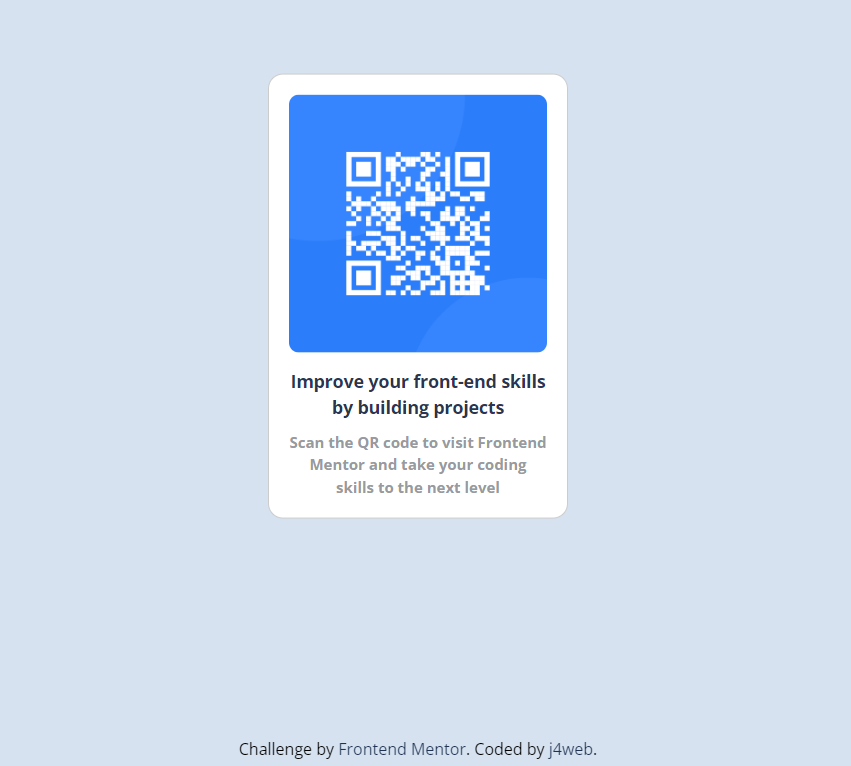
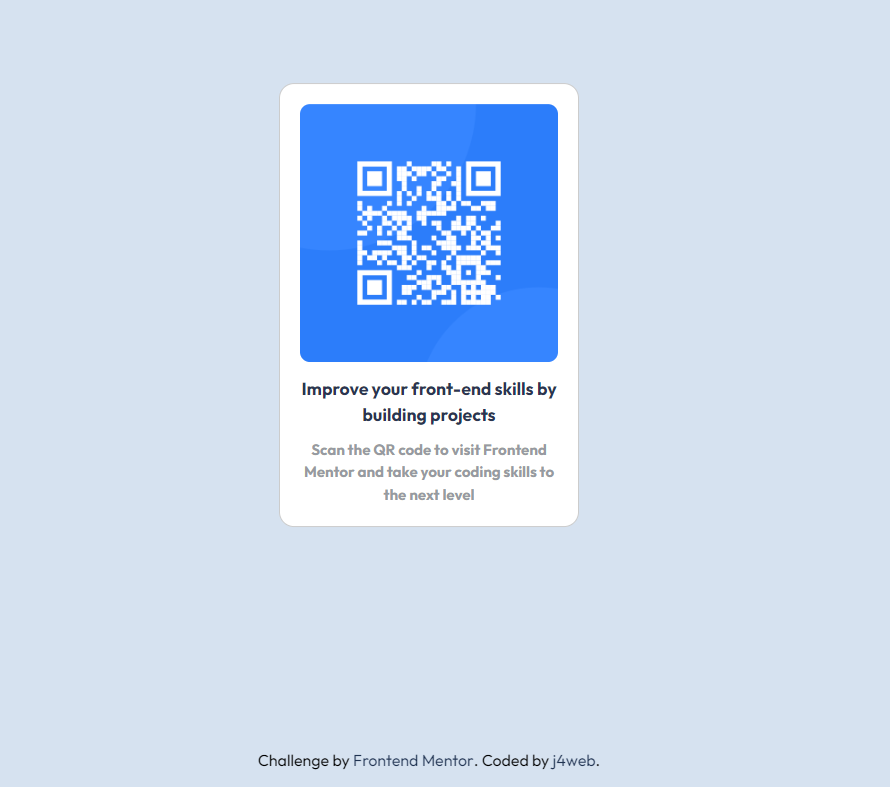
font-fam improved

Changed region(s): [[0.3055, 0.0901, 0.6722, 0.6906], [0.3972, 0.1802, 0.5805, 0.3903], [0.275, 0.9608, 0.7027, 0.9909]]

diff --git a/index.html b/index.html
@@ -7,8 +7,8 @@
   <link rel="icon" type="image/png" sizes="32x32" href="./images/favicon-32x32.png">
   
   <link rel="preconnect" href="https://fonts.googleapis.com">
-  <link rel="preconnect" href="https://fonts.gstatic.com" crossorigin>
-  <link href="https://fonts.googleapis.com/css2?family=Open+Sans:wght@400;700&family=Poppins:wght@700&display=swap" rel="stylesheet">
+<link rel="preconnect" href="https://fonts.gstatic.com" crossorigin>
+<link href="https://fonts.googleapis.com/css2?family=Open+Sans:wght@400;700&family=Outfit:wght@400;700&family=Poppins:wght@700&display=swap" rel="stylesheet">
   <title>Frontend Mentor | QR code component</title>
 
   <!-- Feel free to remove these styles or customise in your own stylesheet 👍 -->

diff --git a/main.css b/main.css
@@ -5,7 +5,7 @@
 }
 body{
     background-color: hsl(212, 45%, 89%);
-    font-family: 'Open Sans', sans-serif;
+font-family: 'Outfit', sans-serif;
 }
 .card{
     width: 300px;

diff --git a/README.md b/README.md
@@ -1,87 +1,103 @@
-# Frontend Mentor - QR code component
+# Frontend Mentor - QR code component solution
 
-![Design preview for the QR code component coding challenge](./design/desktop-preview.jpg)
+This is a solution to the [QR code component challenge on Frontend Mentor](https://www.frontendmentor.io/challenges/qr-code-component-iux_sIO_H). Frontend Mentor challenges help you improve your coding skills by building realistic projects. 
 
-## Welcome! 👋
+## Table of contents
 
-Thanks for checking out this front-end coding challenge.
+- [Overview](#overview)
+  - [Screenshot](#screenshot)
+  - [Links](#links)
+- [My process](#my-process)
+  - [Built with](#built-with)
+  - [What I learned](#what-i-learned)
+  - [Continued development](#continued-development)
+  - [Useful resources](#useful-resources)
+- [Author](#author)
+- [Acknowledgments](#acknowledgments)
 
-[Frontend Mentor](https://www.frontendmentor.io) challenges help you improve your coding skills by building realistic projects.
+**Note: Delete this note and update the table of contents based on what sections you keep.**
 
-**To do this challenge, you need a basic understanding of HTML and CSS.**
+## Overview
 
-## The challenge
+### Screenshot
 
-Your challenge is to build out this QR code component and get it looking as close to the design as possible.
+![](./screenshot.jpg)
 
-You can use any tools you like to help you complete the challenge. So if you've got something you'd like to practice, feel free to give it a go.
+Add a screenshot of your solution. The easiest way to do this is to use Firefox to view your project, right-click the page and select "Take a Screenshot". You can choose either a full-height screenshot or a cropped one based on how long the page is. If it's very long, it might be best to crop it.
 
-Want some support on the challenge? [Join our Slack community](https://www.frontendmentor.io/slack) and ask questions in the **#help** channel.
+Alternatively, you can use a tool like [FireShot](https://getfireshot.com/) to take the screenshot. FireShot has a free option, so you don't need to purchase it. 
 
-## Where to find everything
+Then crop/optimize/edit your image however you like, add it to your project, and update the file path in the image above.
 
-Your task is to build out the project to the designs inside the `/design` folder. You will find both a mobile and a desktop version of the design. 
+**Note: Delete this note and the paragraphs above when you add your screenshot. If you prefer not to add a screenshot, feel free to remove this entire section.**
 
-The designs are in JPG static format. Using JPGs will mean that you'll need to use your best judgment for styles such as `font-size`, `padding` and `margin`. 
+### Links
 
-If you would like the design files (we provide Sketch & Figma versions) to inspect the design in more detail, you can [subscribe as a PRO member](https://www.frontendmentor.io/pro).
+- Solution URL: [Add solution URL here](https://your-solution-url.com)
+- Live Site URL: [Add live site URL here](https://your-live-site-url.com)
 
-You will find all the required assets in the `/images` folder. The assets are already optimized.
+## My process
 
-There is also a `style-guide.md` file containing the information you'll need, such as color palette and fonts.
+### Built with
 
-## Building your project
+- Semantic HTML5 markup
+- CSS custom properties
+- Flexbox
+- CSS Grid
+- Mobile-first workflow
+- [React](https://reactjs.org/) - JS library
+- [Next.js](https://nextjs.org/) - React framework
+- [Styled Components](https://styled-components.com/) - For styles
 
-Feel free to use any workflow that you feel comfortable with. Below is a suggested process, but do not feel like you need to follow these steps:
+**Note: These are just examples. Delete this note and replace the list above with your own choices**
 
-1. Initialize your project as a public repository on [GitHub](https://github.com/). Creating a repo will make it easier to share your code with the community if you need help. If you're not sure how to do this, [have a read-through of this Try Git resource](https://try.github.io/).
-2. Configure your repository to publish your code to a web address. This will also be useful if you need some help during a challenge as you can share the URL for your project with your repo URL. There are a number of ways to do this, and we provide some recommendations below.
-3. Look through the designs to start planning out how you'll tackle the project. This step is crucial to help you think ahead for CSS classes to create reusable styles.
-4. Before adding any styles, structure your content with HTML. Writing your HTML first can help focus your attention on creating well-structured content.
-5. Write out the base styles for your project, including general content styles, such as `font-family` and `font-size`.
-6. Start adding styles to the top of the page and work down. Only move on to the next section once you're happy you've completed the area you're working on.
+### What I learned
 
-## Deploying your project
+Use this section to recap over some of your major learnings while working through this project. Writing these out and providing code samples of areas you want to highlight is a great way to reinforce your own knowledge.
 
-As mentioned above, there are many ways to host your project for free. Our recommend hosts are:
+To see how you can add code snippets, see below:
 
-- [GitHub Pages](https://pages.github.com/)
-- [Vercel](https://vercel.com/)
-- [Netlify](https://www.netlify.com/)
+```html
+<h1>Some HTML code I'm proud of</h1>
+```
+```css
+.proud-of-this-css {
+  color: papayawhip;
+}
+```
+```js
+const proudOfThisFunc = () => {
+  console.log('🎉')
+}
+```
 
-You can host your site using one of these solutions or any of our other trusted providers. [Read more about our recommended and trusted hosts](https://medium.com/frontend-mentor/frontend-mentor-trusted-hosting-providers-bf000dfebe).
+If you want more help with writing markdown, we'd recommend checking out [The Markdown Guide](https://www.markdownguide.org/) to learn more.
 
-## Create a custom `README.md`
+**Note: Delete this note and the content within this section and replace with your own learnings.**
 
-We strongly recommend overwriting this `README.md` with a custom one. We've provided a template inside the [`README-template.md`](./README-template.md) file in this starter code.
+### Continued development
 
-The template provides a guide for what to add. A custom `README` will help you explain your project and reflect on your learnings. Please feel free to edit our template as much as you like.
+Use this section to outline areas that you want to continue focusing on in future projects. These could be concepts you're still not completely comfortable with or techniques you found useful that you want to refine and perfect.
 
-Once you've added your information to the template, delete this file and rename the `README-template.md` file to `README.md`. That will make it show up as your repository's README file.
+**Note: Delete this note and the content within this section and replace with your own plans for continued development.**
 
-## Submitting your solution
+### Useful resources
 
-Submit your solution on the platform for the rest of the community to see. Follow our ["Complete guide to submitting solutions"](https://medium.com/frontend-mentor/a-complete-guide-to-submitting-solutions-on-frontend-mentor-ac6384162248) for tips on how to do this.
+- [Example resource 1](https://www.example.com) - This helped me for XYZ reason. I really liked this pattern and will use it going forward.
+- [Example resource 2](https://www.example.com) - This is an amazing article which helped me finally understand XYZ. I'd recommend it to anyone still learning this concept.
 
-Remember, if you're looking for feedback on your solution, be sure to ask questions when submitting it. The more specific and detailed you are with your questions, the higher the chance you'll get valuable feedback from the community.
+**Note: Delete this note and replace the list above with resources that helped you during the challenge. These could come in handy for anyone viewing your solution or for yourself when you look back on this project in the future.**
 
-## Sharing your solution
+## Author
 
-There are multiple places you can share your solution:
+- Website - [Add your name here](https://www.your-site.com)
+- Frontend Mentor - [@yourusername](https://www.frontendmentor.io/profile/yourusername)
+- Twitter - [@yourusername](https://www.twitter.com/yourusername)
 
-1. Share your solution page in the **#finished-projects** channel of the [Slack community](https://www.frontendmentor.io/slack). 
-2. Tweet [@frontendmentor](https://twitter.com/frontendmentor) and mention **@frontendmentor**, including the repo and live URLs in the tweet. We'd love to take a look at what you've built and help share it around.
-3. Share your solution on other social channels like LinkedIn.
-4. Blog about your experience building your project. Writing about your workflow, technical choices, and talking through your code is a brilliant way to reinforce what you've learned. Great platforms to write on are [dev.to](https://dev.to/), [Hashnode](https://hashnode.com/), and [CodeNewbie](https://community.codenewbie.org/).
+**Note: Delete this note and add/remove/edit lines above based on what links you'd like to share.**
 
-We provide templates to help you share your solution once you've submitted it on the platform. Please do edit them and include specific questions when you're looking for feedback. 
+## Acknowledgments
 
-The more specific you are with your questions the more likely it is that another member of the community will give you feedback.
+This is where you can give a hat tip to anyone who helped you out on this project. Perhaps you worked in a team or got some inspiration from someone else's solution. This is the perfect place to give them some credit.
 
-## Got feedback for us?
-
-We love receiving feedback! We're always looking to improve our challenges and our platform. So if you have anything you'd like to mention, please email hi[at]frontendmentor[dot]io.
-
-This challenge is completely free. Please share it with anyone who will find it useful for practice.
-
-**Have fun building!** 🚀
+**Note: Delete this note and edit this section's content as necessary. If you completed this challenge by yourself, feel free to delete this section entirely.**
